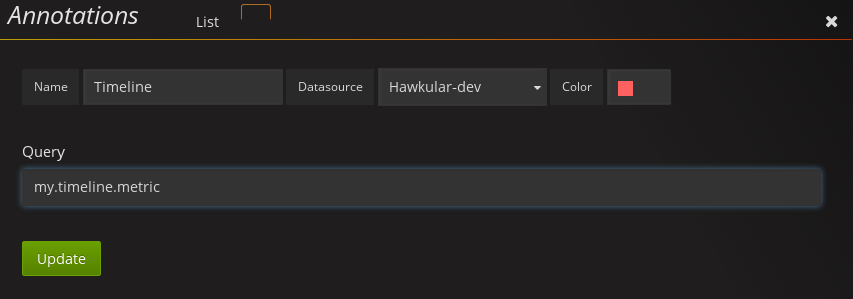
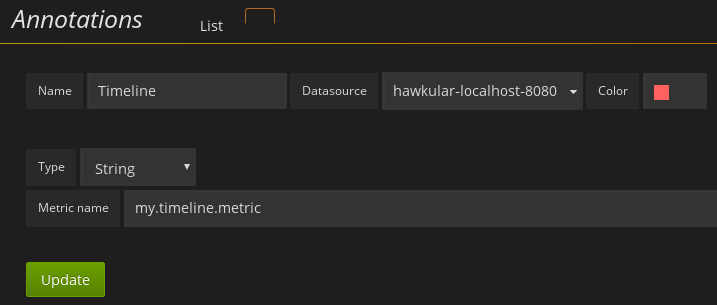
Show events from hawkular alerts

diff --git a/src/datasource.js b/src/datasource.js
@@ -8,7 +8,8 @@ export class HawkularDatasource {
 
   constructor(instanceSettings, $q, backendSrv, templateSrv) {
     this.type = instanceSettings.type;
-    this.url = instanceSettings.url;
+    this.metricsUrl = instanceSettings.url + '/metrics';
+    this.alertsUrl = instanceSettings.url + '/alerts';
     this.name = instanceSettings.name;
     this.tenant = instanceSettings.jsonData.tenant;
     this.isTenantPerQuery = instanceSettings.jsonData.isTenantPerQuery;
@@ -27,7 +28,7 @@ export class HawkularDatasource {
     };
     this.variablesHelper = new VariablesHelper(templateSrv);
     this.capabilitiesPromise = this.queryVersion().then(version => new Capabilities(version));
-    this.queryProcessor = new QueryProcessor($q, backendSrv, this.variablesHelper, this.capabilitiesPromise, this.url,
+    this.queryProcessor = new QueryProcessor($q, backendSrv, this.variablesHelper, this.capabilitiesPromise, this.metricsUrl,
             this.getHeaders.bind(this), this.typeResources);
   }
 
@@ -94,7 +95,7 @@ export class HawkularDatasource {
     // Else, it's full connectivity with tenant check
     const endpoint = this.isTenantPerQuery ? '/' : '/metrics';
     return this.backendSrv.datasourceRequest({
-      url: this.url + endpoint,
+      url: this.metricsUrl + endpoint,
       method: 'GET',
       headers: this.getHeaders()
     }).then(response => {
@@ -108,8 +109,11 @@ export class HawkularDatasource {
 
   annotationQuery(options) {
     const metricIds = this.variablesHelper.resolve(options.annotation.query, options);
+    if (options.annotation.type === 'alert') {
+      return this.queryAlerts(metricIds, options);
+    }
     return this.backendSrv.datasourceRequest({
-      url: `${this.url}/${options.annotation.type}/raw/query`,
+      url: `${this.metricsUrl}/${options.annotation.type}/raw/query`,
       data: {
         start: options.range.from.valueOf(),
         end: options.range.to.valueOf(),
@@ -150,8 +154,32 @@ export class HawkularDatasource {
     });
   }
 
+  queryAlerts(ids, options) {
+    return this.backendSrv.datasourceRequest({
+      url: `${this.alertsUrl}/events`,
+      params: {
+        startTime: options.range.from.valueOf(),
+        endTime: options.range.to.valueOf(),
+        triggerIds: ids
+      },
+      method: 'GET',
+      headers: this.getHeaders(options.annotation.tenant)
+    }).then(response => response.status == 200 ? response.data : [])
+    .then(events => {
+      return events.map(event => {
+        return {
+          annotation: options.annotation,
+          time: event.ctime,
+          title: options.annotation.name,
+          text: event.text,
+          tags: event.status
+        };
+      });
+    });
+  }
+
   suggestMetrics(target) {
-    let url = this.url + '/metrics?type=' + target.type;
+    let url = this.metricsUrl + '/metrics?type=' + target.type;
     if (target.tagsQL && target.tagsQL.length > 0) {
       url += '&tags=' + this.variablesHelper.resolveForQL(target.tagsQL, {});
     } else if (target.tags && target.tags.length > 0) {
@@ -176,7 +204,7 @@ export class HawkularDatasource {
       return this.q.when([]);
     }
     return this.backendSrv.datasourceRequest({
-      url: `${this.url}/${this.typeResources[target.type]}/tags/${key}:*`,
+      url: `${this.metricsUrl}/${this.typeResources[target.type]}/tags/${key}:*`,
       method: 'GET',
       headers: this.getHeaders(target.tenant)
     }).then(result => result.data.hasOwnProperty(key) ? result.data[key] : [])
@@ -187,7 +215,7 @@ export class HawkularDatasource {
 
   suggestTagKeys(target) {
     return this.backendSrv.datasourceRequest({
-      url: this.url + '/metrics/tags',
+      url: this.metricsUrl + '/metrics/tags',
       method: 'GET',
       headers: this.getHeaders(target.tenant)
     }).then(response => response.status == 200 ? response.data : [])
@@ -207,7 +235,7 @@ export class HawkularDatasource {
       }
     }
     return this.runWithResolvedVariables(params, p => this.backendSrv.datasourceRequest({
-      url: `${this.url}/metrics${p}`,
+      url: `${this.metricsUrl}/metrics${p}`,
       method: 'GET',
       headers: this.getHeaders()
     }).then(result => {
@@ -219,7 +247,7 @@ export class HawkularDatasource {
 
   findTags(pattern) {
     return this.runWithResolvedVariables(pattern, p => this.backendSrv.datasourceRequest({
-      url: `${this.url}/metrics/tags/${p}`,
+      url: `${this.metricsUrl}/metrics/tags/${p}`,
       method: 'GET',
       headers: this.getHeaders()
     }).then(result => {
@@ -246,7 +274,7 @@ export class HawkularDatasource {
 
   queryVersion() {
     return this.backendSrv.datasourceRequest({
-      url: this.url + '/status',
+      url: this.metricsUrl + '/status',
       method: 'GET',
       headers: {'Content-Type': 'application/json'}
     }).then(response => response.data['Implementation-Version'])

diff --git a/spec/datasource-annotations_spec.js b/spec/datasource-annotations_spec.js
@@ -1,6 +1,6 @@
 import {Datasource} from '../module';
 import Q from 'q';
-import {getSettings, expectRequest} from './test-util';
+import {getSettings, expectRequest, expectAlertRequest} from './test-util';
 
 describe('HawkularDatasource annotations', () => {
   let ctx = {};
@@ -226,6 +226,53 @@ describe('HawkularDatasource annotations', () => {
       expect(result[1].title).to.equal('Avail');
       expect(result[1].tags).to.be.undefined;
       expect(result[1].text).to.equal('down');
+    }).then(v => done(), err => done(err));
+  });
+
+  it('should query annotations from alerts', done => {
+
+    let options = {
+      range: {
+        from: 15,
+        to: 30
+      },
+      annotation: {
+        query: 'my.trigger',
+        name: 'Alert',
+        type: 'alert'
+      }
+    };
+
+    ctx.backendSrv.datasourceRequest = request => {
+      expectAlertRequest(request, 'GET', 'events');
+
+      return ctx.$q.when({
+        status: 200,
+        data: [{
+          ctime: 13,
+          status: 'OPEN',
+          text: 'Some text'
+        }, {
+          ctime: 19,
+          status: 'OPEN',
+          text: 'Some text'
+        }]
+      });
+    };
+
+    ctx.ds.annotationQuery(options).then(result => {
+      expect(result).to.have.length(2);
+      expect(result[0].annotation).to.deep.equal({ query: 'my.trigger', name: 'Alert', type: 'alert' });
+      expect(result[0].time).to.equal(13);
+      expect(result[0].title).to.equal('Alert');
+      expect(result[0].tags).to.equal('OPEN');
+      expect(result[0].text).to.equal('Some text');
+
+      expect(result[1].annotation).to.deep.equal({ query: 'my.trigger', name: 'Alert', type: 'alert' });
+      expect(result[1].time).to.equal(19);
+      expect(result[1].title).to.equal('Alert');
+      expect(result[1].tags).to.equal('OPEN');
+      expect(result[1].text).to.equal('Some text');
     }).then(v => done(), err => done(err));
   });
 });

diff --git a/spec/test-util.js b/spec/test-util.js
@@ -1,7 +1,7 @@
 const hProtocol = 'https';
 const hHostname = 'test.com';
 const hPort = '876';
-const hPath = 'hawkular/metrics';
+const hPath = 'hawkular';
 const instanceSettings = {
   url: `${hProtocol}://${hHostname}:${hPort}/${hPath}`,
   jsonData: {
@@ -10,15 +10,21 @@ const instanceSettings = {
 };
 
 export function expectRequest(request, verb, path) {
-    expect(request.method).to.equal(verb);
-    expect(request.headers).to.have.property('Hawkular-Tenant', instanceSettings.jsonData.tenant);
-    expect(request.url).to.equal(`${instanceSettings.url}/${path}`);
+  expect(request.method).to.equal(verb);
+  expect(request.headers).to.have.property('Hawkular-Tenant', instanceSettings.jsonData.tenant);
+  expect(request.url).to.equal(`${instanceSettings.url}/metrics/${path}`);
+}
+
+export function expectAlertRequest(request, verb, path) {
+  expect(request.method).to.equal(verb);
+  expect(request.headers).to.have.property('Hawkular-Tenant', instanceSettings.jsonData.tenant);
+  expect(request.url).to.equal(`${instanceSettings.url}/alerts/${path}`);
 }
 
 export function expectRequestWithTenant(request, verb, path, tenant) {
-    expect(request.method).to.equal(verb);
-    expect(request.headers).to.have.property('Hawkular-Tenant', tenant);
-    expect(request.url).to.equal(`${instanceSettings.url}/${path}`);
+  expect(request.method).to.equal(verb);
+  expect(request.headers).to.have.property('Hawkular-Tenant', tenant);
+  expect(request.url).to.equal(`${instanceSettings.url}/metrics/${path}`);
 }
 
 export function getSettings() {

diff --git a/src/partials/annotations.editor.html b/src/partials/annotations.editor.html
@@ -1,10 +1,7 @@
 <div class="gf-form-group">
   <div class="gf-form-inline">
-    <div class="gf-form">
-      <span class="gf-form-label">
-        Tenant&nbsp;
-        <i class="fa fa-question-circle" bs-tooltip="'Use for per-query tenant configuration only, see datasource configuration'" data-placement="right"></i>
-      </span>
+    <div ng-if="ctrl.datasource.isTenantPerQuery" class="gf-form">
+			<label class="gf-form-label">Tenant</label>
       <input type="text" class="gf-form-input max-width-10" ng-model="ctrl.annotation.tenant" placeholder="">
     </div>
     <div class="gf-form">
@@ -12,11 +9,13 @@
       <select class="gf-form-input max-width-10" ng-model="ctrl.annotation.type">
         <option value="availability">Availability</option>
         <option value="strings">String</option>
+        <option value="alert">Alert</option>
       </select>
     </div>
   </div>
   <div class="gf-form">
-    <span class="gf-form-label">Metric name</span>
+    <span ng-if="ctrl.annotation.type != 'alert'" class="gf-form-label">Metric name</span>
+    <span ng-if="ctrl.annotation.type == 'alert'" class="gf-form-label">Trigger ID</span>
     <input type="text" class="gf-form-input" ng-model="ctrl.annotation.query" placeholder="">
   </div>
 </div>

diff --git a/src/module.js b/src/module.js
@@ -1,12 +1,10 @@
 import {HawkularDatasource} from './datasource';
 import {HawkularDatasourceQueryCtrl} from './query_ctrl';
 import {HawkularConfigCtrl} from './config_ctrl';
+import {HawkularAnnotationsQueryCtrl} from './annotation_ctrl';
 
 class HawkularQueryOptionsCtrl {}
 HawkularQueryOptionsCtrl.templateUrl = 'partials/query.options.html';
-
-class HawkularAnnotationsQueryCtrl {}
-HawkularAnnotationsQueryCtrl.templateUrl = 'partials/annotations.editor.html';
 
 export {
   HawkularDatasource as Datasource,

diff --git a/src/config_ctrl.js b/src/config_ctrl.js
@@ -1,7 +1,7 @@
 export class HawkularConfigCtrl {
 
   constructor() {
-    this.current.url = this.current.url || 'http://your_server:8080/hawkular/metrics'
+    this.current.url = this.current.url || 'http://your_server:8080/hawkular'
   }
 }
 

diff --git a/src/annotation_ctrl.js b/src/annotation_ctrl.js
@@ -1,0 +1,6 @@
+export class HawkularAnnotationsQueryCtrl {
+  constructor() {
+  }
+}
+
+HawkularAnnotationsQueryCtrl.templateUrl = 'partials/annotations.editor.html';

diff --git a/README.md b/README.md
@@ -1,13 +1,14 @@
 # Hawkular Datasource for Grafana
 
-This project is the Hawkular Datasource plugin for Grafana 3. It works with:
+This project is the Hawkular Datasource plugin for Grafana. It works with:
 
-* Metrics standalone servers as well
-* Hawkular servers, starting from version Alpha13
+* Hawkular Metrics (standalone)
+* Hawkular Services, starting from version Alpha13
+* OpenShift with Hawkular Metrics
 
 ## Configuration
 
-The datasource URL must point to the Hawkular Metrics service, e.g. `http://myhost:8080/hawkular/metrics`
+The datasource URL must point to the Hawkular server, e.g. `http://myhost:8080/hawkular` (without ending `/metrics`)
 
 Access: both `proxy` and `direct` modes should work in most configurations. Some earlier versions of Hawkular Metrics had a bug with CORS headers, that prevented the use of `direct` mode here.
 If you want to use `direct` mode (that is, direct calls from client browser to Hawkular REST API), and if you have setup CORS restrictions in Hawkular, make sure to allow the Grafana server origin in Metrics' configuration.
@@ -79,7 +80,9 @@ They can also be used in tag values, after operators _=_ / _!=_ / _is in_ / _is 
 
 ### Annotations
 
-Annotations are available through the use of _'string'_ metrics in Hawkular. It's a Grafana feature that allows to display custom events in timed charts. Here's how to proceed:
+Annotations are available through the use of _'string'_ and _'availability'_ metrics in Hawkular, or _'events'_ from Hawkular Alerts. It's a Grafana feature that allows to display custom events in timed charts.
+
+Example with a _'string'_ metric:
 
 1. Setup an annotation query in Grafana. In _'Query'_, put the name of a _'string'_ metric you want to use to gather these annotations.
 
@@ -99,6 +102,8 @@ Example, JSON posted on [the Hawkular's REST API](http://www.hawkular.org/hawkul
 
 ![Annotation in chart](https://raw.githubusercontent.com/hawkular/hawkular-grafana-datasource/master/docs/images/annotation.png)
 
+In the case of Hawkular Alerts events, you need to provide the trigger ID (several comma-separated IDs are allowed).
+
 ## Installing from sources
 
 Additional information on installing from sources can be found on [hawkular.org](http://www.hawkular.org/hawkular-clients/grafana/docs/quickstart-guide/).
@@ -107,7 +112,7 @@ Additional information on installing from sources can be found on [hawkular.org]
 
 ### Grafana fails to establish a connection or get data from hawkular
 
-* Check the URL: `[host]/hawkular/metrics`. Make sure there's no ending slash. When you open up this URL in a browser you should see the Hawkular logo, the installed version and a mention that the service is started.
+* Check the URL: `[host]/hawkular`. Make sure there's no ending slash. When you open up this URL in a browser you should see the Hawkular logo, the installed version and a mention that the service is started.
 
 * Make sure the credentials or token match your installation. In general, if you installed a **standalone hawkular-metrics** server without any specific configuration you probably don't have any authentication information to provide. If you installed **hawkular-services** using its [installation guide](http://www.hawkular.org/hawkular-services/docs/installation-guide/) you will probably have to fill-in the basic auth fields. If you are using **Hawkular from OpenShift**, you have to provide a Bearer token in the `Token` field. Tokens can be [generated temporarily](https://docs.openshift.com/enterprise/3.1/architecture/additional_concepts/authentication.html) (go to `[OpenShift host]/oauth/token/request`) or from a [Service account](https://docs.openshift.com/container-platform/3.3/rest_api/index.html#rest-api-serviceaccount-tokens) in OpenShift.
 
